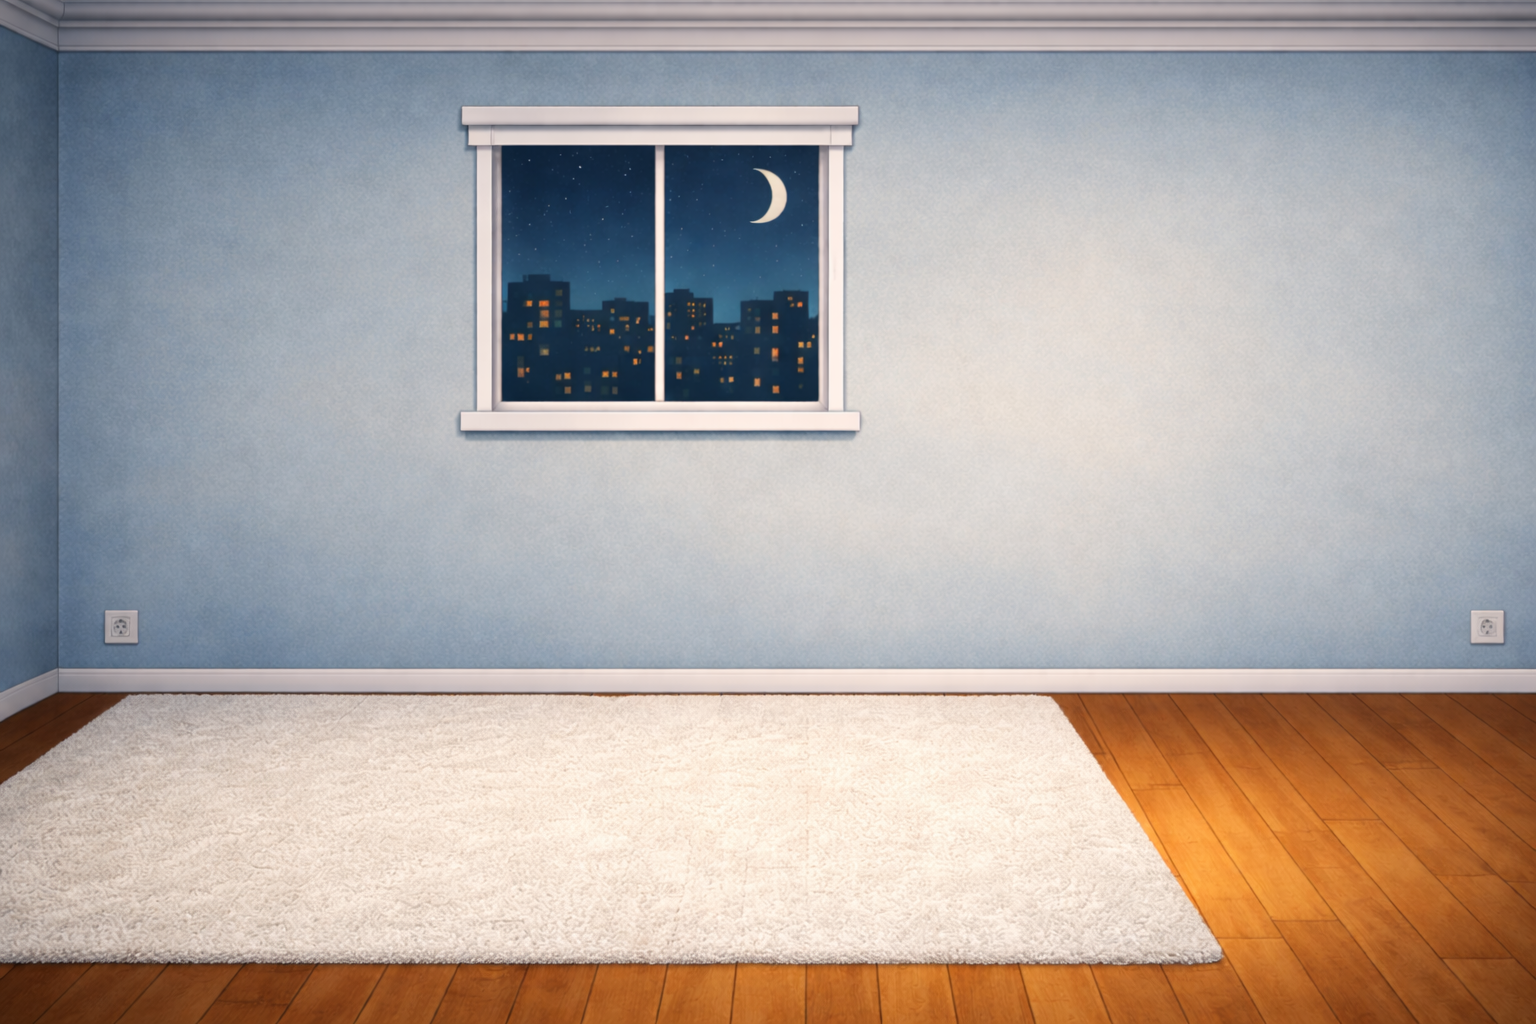
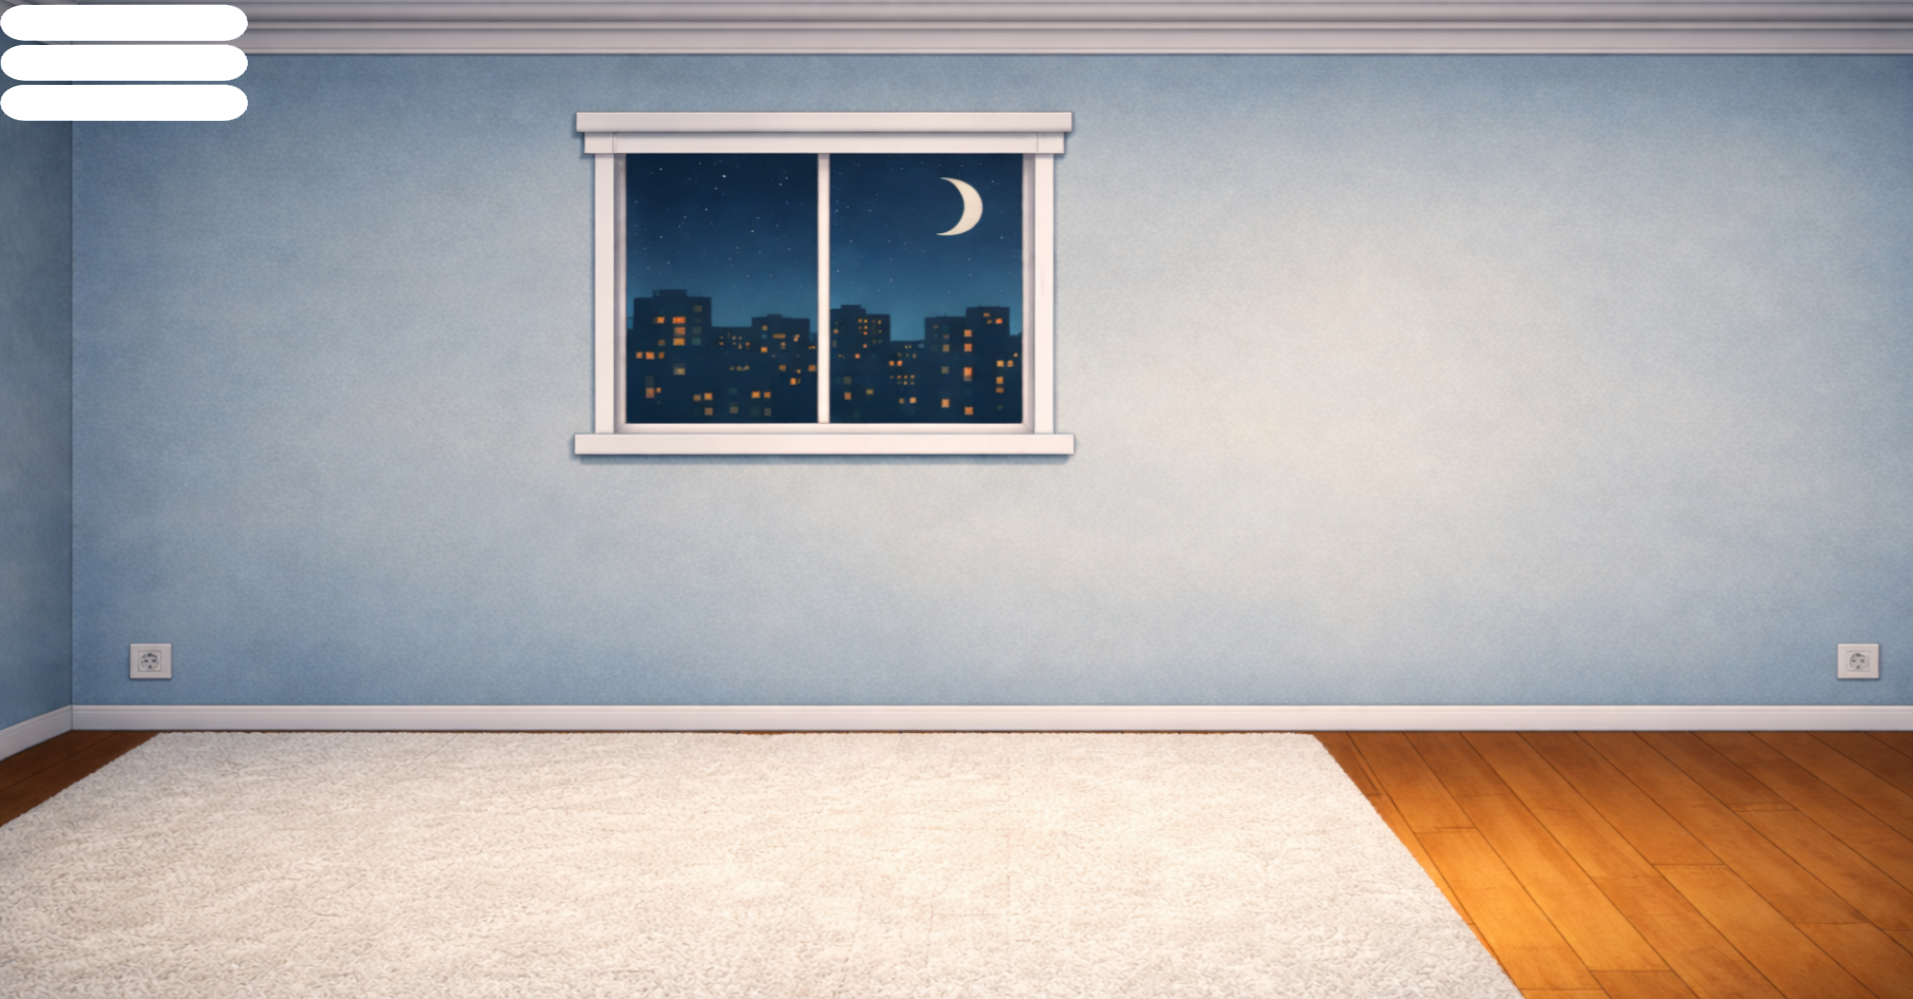
StudyWindow window indication and bug fixes

Changed region(s): [[0.0, 0.5896, 1.0, 1.0], [0.2812, 0.0931, 0.5625, 0.4655], [0.0, 0.0, 1.0, 0.1241]]

diff --git a/gui.py b/gui.py
@@ -22,10 +22,55 @@ class MainWindow(QMainWindow) :
         self.resize(1920,1080)
 
         self.charge_window(MainMenuWindow)
+
+        self.game_timer = QTimer(self)
+        self.game_timer.timeout.connect(self.game_tick)
+        self.game_timer.start(500)
     
     def charge_window(self, window_class) :
         new_window = window_class(self, self.player)
         self.setCentralWidget(new_window)
+
+    def game_tick(self):
+        self.player.charge_hunger(0.1)
+        self.player.charge_thirst(0.1)
+
+        if (
+        self.player.hunger >= self.player.max_hunger
+        or self.player.thirst >= self.player.max_thirst
+        ):
+            self.player.charge_health(-0.5)
+        else:
+            self.player.charge_health(0.5)
+
+        current_window = self.centralWidget()
+
+        if hasattr(current_window, "update_status_hud"):
+            current_window.update_status_hud()
+
+        if hasattr(current_window, "health_fill"):
+            current_window.update_status_bar(
+            current_window.health_fill,
+            self.player.health,
+            self.player.max_health,
+            current_window.health_bar_max_width
+        )
+
+        if hasattr(current_window, "thirst_fill"):
+            current_window.update_status_bar(
+            current_window.thirst_fill,
+            self.player.thirst,
+            self.player.max_thirst,
+            current_window.thirst_bar_max_width
+        )
+
+        if hasattr(current_window, "hunger_fill"):
+            current_window.update_status_bar(
+            current_window.hunger_fill,
+            self.player.hunger,
+            self.player.max_hunger,
+            current_window.hunger_bar_max_width
+        )
 
 class Window(QWidget) :
     def __init__(self, main_window, player) :
@@ -34,26 +79,15 @@ class Window(QWidget) :
         self.player = player
         self.main_window = main_window
 
-    def build_hud(self) :
-        self.BackgroundStatusBarHealth = QLabel(self)
-        self.BackgroundStatusBarHealth.setPixmap(QPixmap("assets/MainGameWindow/BackgroundStatusBar.png"))
-        self.BackgroundStatusBarHealth.setScaledContents(True)
-        self.BackgroundStatusBarHealth.setGeometry(0, 0, 250, 45)
-        self.BackgroundStatusBarThirst = QLabel(self)
-        self.BackgroundStatusBarThirst.setPixmap(QPixmap("assets/MainGameWindow/BackgroundStatusBar.png"))
-        self.BackgroundStatusBarThirst.setScaledContents(True)
-        self.BackgroundStatusBarThirst.setGeometry(0, 40, 250, 45)
-        self.BackgroundStatusBarHunger = QLabel(self)
-        self.BackgroundStatusBarHunger.setPixmap(QPixmap("assets/MainGameWindow/BackgroundStatusBar.png"))
-        self.BackgroundStatusBarHunger.setScaledContents(True)
-        self.BackgroundStatusBarHunger.setGeometry(0, 80, 250, 45)
+    def build_hud_progress_bar(self) :
+        
         self.health_bar_max_width = 250
         self.thirst_bar_max_width = 250
         self.hunger_bar_max_width = 250
         self.health_fill = QLabel(self)
         self.health_fill.setPixmap(QPixmap("assets/MainGameWindow/ProgressStatusBarHealth.png"))
         self.health_fill.setScaledContents(True)
-        self.health_fill.setGeometry(0, 0, self.health_bar_max_width, 45)
+        self.health_fill.setGeometry(0, 2, self.health_bar_max_width, 45)
         self.update_status_bar(
             self.health_fill,
             self.player.health,
@@ -63,7 +97,7 @@ class Window(QWidget) :
         self.thirst_fill = QLabel(self)
         self.thirst_fill.setPixmap(QPixmap("assets/MainGameWindow/ProgressStatusBar.png"))
         self.thirst_fill.setScaledContents(True)
-        self.thirst_fill.setGeometry(0, 40, self.thirst_bar_max_width, 45)
+        self.thirst_fill.setGeometry(0, 45, self.thirst_bar_max_width, 45)
         self.update_status_bar(
             self.thirst_fill,
             self.player.thirst,
@@ -73,35 +107,37 @@ class Window(QWidget) :
         self.hunger_fill = QLabel(self)
         self.hunger_fill.setPixmap(QPixmap("assets/MainGameWindow/ProgressStatusBar.png"))
         self.hunger_fill.setScaledContents(True)
-        self.hunger_fill.setGeometry(0, 80, self.hunger_bar_max_width, 45)
+        self.hunger_fill.setGeometry(0, 88, self.hunger_bar_max_width, 45)
         self.update_status_bar(
             self.hunger_fill,
             self.player.hunger,
             self.player.max_hunger,
             self.hunger_bar_max_width
         )
+
+    def build_hud_status_player(self) :
         font = QFont()
         font.setPointSize(22)
         self.label_health = QLabel("HEALTH", self)
         self.label_health.setStyleSheet("color: white;")
         self.label_health.setFont(font)
-        self.label_health.setGeometry(70, 5, 220, 40)
+        self.label_health.setGeometry(70, 7, 220, 40)
         self.label_thirst = QLabel("THIRST", self)
         self.label_thirst.setStyleSheet("color: white;")
         self.label_thirst.setFont(font)
-        self.label_thirst.setGeometry(70, 45, 220, 40)
+        self.label_thirst.setGeometry(70, 49, 220, 40)
         self.label_hunger = QLabel("HUNGER", self) 
         self.label_hunger.setStyleSheet("color: white;")
         self.label_hunger.setFont(font)
-        self.label_hunger.setGeometry(60, 85, 220, 40)
+        self.label_hunger.setGeometry(60, 92, 220, 40)
         self.label_dev_skill = QLabel("Dev Skill: " + str(self.player.dev_skill), self)
         self.label_dev_skill.setStyleSheet("color: white;")
         self.label_dev_skill.setFont(font)
-        self.label_dev_skill.setGeometry(40, 120, 300, 40)
+        self.label_dev_skill.setGeometry(40, 130, 300, 40)
         self.label_money = QLabel("Money: $" + str(self.player.money), self)
         self.label_money.setStyleSheet("color: white;")
         self.label_money.setFont(font)
-        self.label_money.setGeometry(40, 150, 350, 40)
+        self.label_money.setGeometry(40, 160, 350, 40)
     
     def update_status_bar(self, bar_fill, current_value, max_value, max_width):
         if current_value < 0:
@@ -209,10 +245,20 @@ class MainGameWindow(Window) :
     def build_it(self) :
         self.setWindowTitle("- Main Game -")
         self.resize(1920, 1080)
+        self.base_background = QLabel(self)
+        self.base_background.setPixmap(QPixmap("assets/MainGameWindow/BaseBackgroundMain.png"))
+        self.base_background.setScaledContents(True)
+        self.base_background.setGeometry(0, 0, 1920, 1080)
+        self.build_hud_progress_bar()
         self.background = QLabel(self)
         self.background.setPixmap(QPixmap("assets/MainGameWindow/BackgroundMainGame.png"))
         self.background.setScaledContents(True)
         self.background.setGeometry(0, 0, 1920, 1080)
+        self.base_background.lower()
+        self.health_fill.raise_()
+        self.thirst_fill.raise_()
+        self.hunger_fill.raise_()
+        self.background.raise_()
         self.blackbase = QLabel(self)
         self.blackbase.setPixmap(QPixmap("assets/MainGameWindow/BlackBase.png"))
         self.blackbase.setScaledContents(True)
@@ -242,7 +288,12 @@ class MainGameWindow(Window) :
             940, 400, 550, 600,
             self
         )
-        self.build_hud()
+        self.build_hud_status_player()
+        self.bookCase.clicked.connect(lambda : self.main_window.charge_window(StudyWindow))
+        self.beg.clicked.connect(lambda : self.main_window.charge_window(FeedingWindow))
+        self.computer.clicked.connect(lambda : self.main_window.charge_window(WorkWindow))
+        self.bed.clicked.connect(lambda : self.main_window.charge_window(SleepingWindow))
+        self.door.clicked.connect(lambda : self.main_window.charge_window(UniversityWindow))
 
 class StudyWindow(Window) :
     def __init__(self, main_window, player) :
@@ -253,6 +304,35 @@ class StudyWindow(Window) :
     def build_it(self) :
         self.setWindowTitle("- Study -")
         self.resize(1920, 1080)
+        self.base_background = QLabel(self)
+        self.base_background.setPixmap(QPixmap("assets/MainGameWindow/BaseBackgroundMain.png"))
+        self.base_background.setScaledContents(True)
+        self.base_background.setGeometry(0, 0, 1920, 1080)
+        self.build_hud_progress_bar()
+        self.background = QLabel(self)
+        self.background.setPixmap(QPixmap("assets/StudyWindow/BackgroundStudy.png"))
+        self.background.setScaledContents(True)
+        self.background.setGeometry(0, 0, 1920, 1080)
+        self.build_hud_status_player()
+        self.book_study = InteractiveImage(
+            "assets/StudyWindow/BookStudy.png",
+            480, 120, 1000, 700,
+            self
+        )
+        font = QFont()
+        font.setPointSize(22)
+        self.label_study = QLabel("Click on the book to study.", self)
+        self.label_study.setStyleSheet("color: white;")
+        self.label_study.setFont(font)
+        self.label_study.setGeometry(800, 800, 450, 40)
+        font2 = QFont()
+        font2.setPointSize(18)
+        self.label_study2 = QLabel("Each click equals +1 dev skill", self)
+        self.label_study2.setStyleSheet("color: white;")
+        self.label_study2.setFont(font2)
+        self.label_study2.setGeometry(815, 840, 450, 40)
+
+        self.book_study.clicked.connect(lambda : self.player.charge_dev_skill(1))
 
 class FeedingWindow(Window) :
     def __init__(self, main_window, player) :
